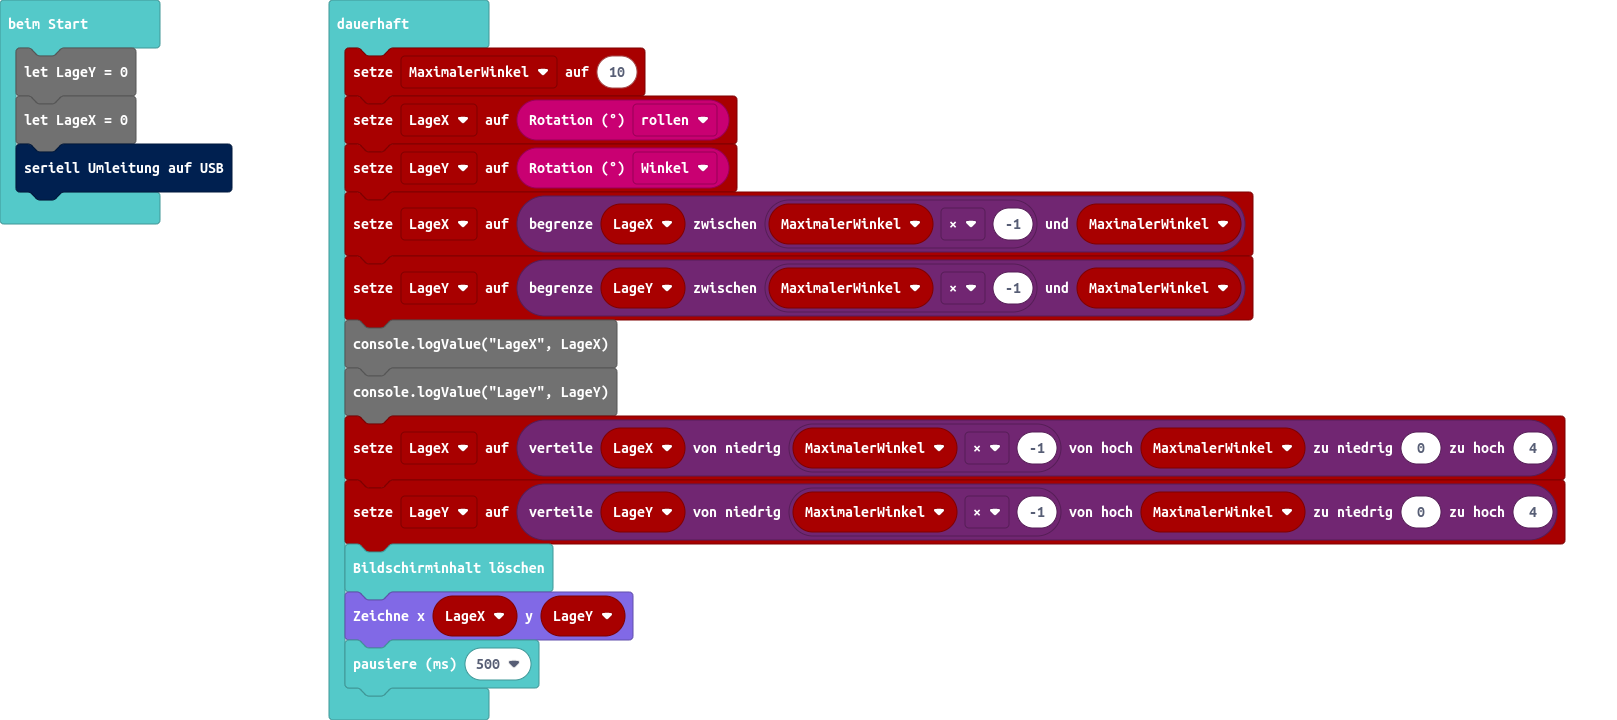
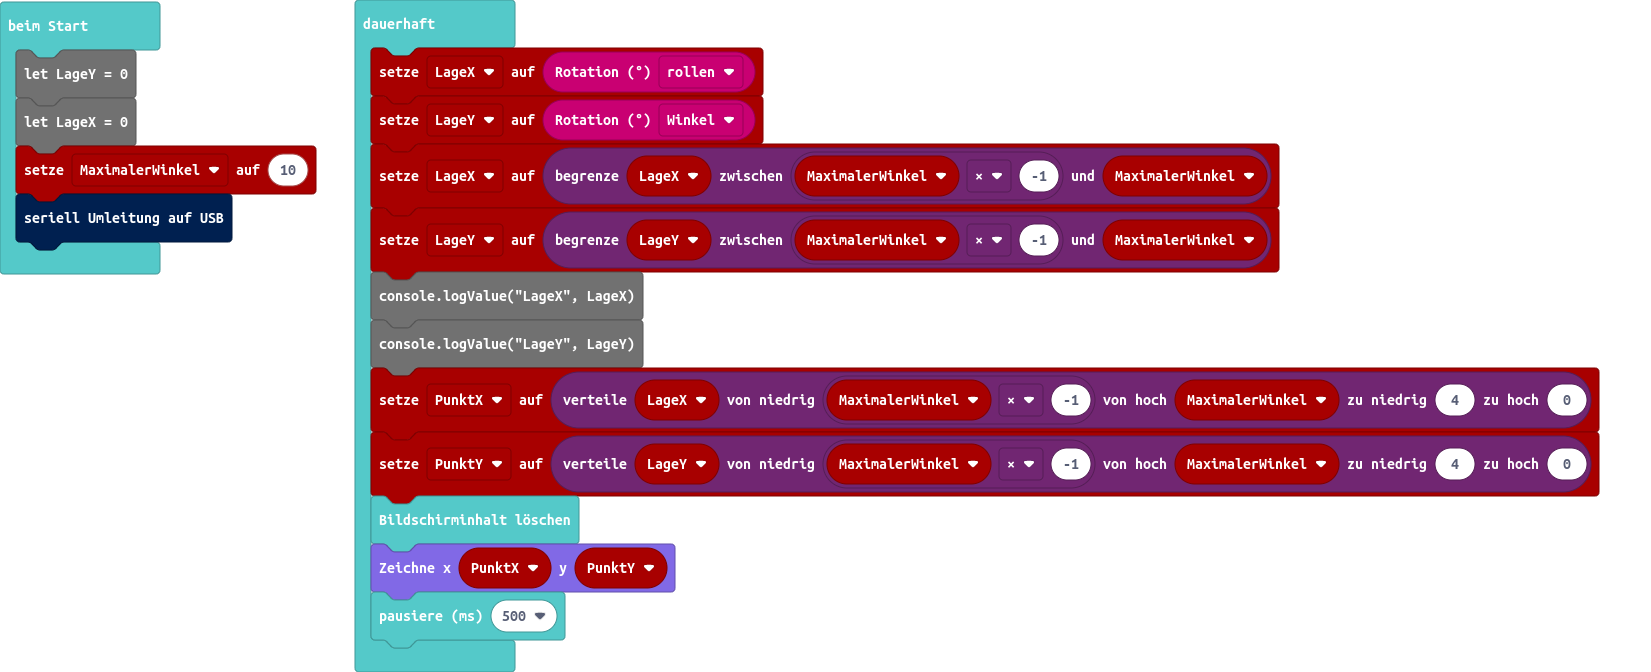
Aktualisiere pxt.json, main.blocks, main.ts, anleitung.md

Changed region(s): [[0.0, 0.0, 0.9895, 1.0], [0.0, 0.0, 0.1237, 0.125]]

diff --git a/main.ts b/main.ts
@@ -1,18 +1,19 @@
-let MaximalerWinkel = 0
+let PunktY = 0
+let PunktX = 0
 let LageY = 0
 let LageX = 0
+let MaximalerWinkel = 10
 serial.redirectToUSB()
 basic.forever(function () {
-    MaximalerWinkel = 10
     LageX = input.rotation(Rotation.Roll)
     LageY = input.rotation(Rotation.Pitch)
     LageX = Math.constrain(LageX, MaximalerWinkel * -1, MaximalerWinkel)
     LageY = Math.constrain(LageY, MaximalerWinkel * -1, MaximalerWinkel)
     console.logValue("LageX", LageX)
 console.logValue("LageY", LageY)
-LageX = Math.map(LageX, MaximalerWinkel * -1, MaximalerWinkel, 0, 4)
-    LageY = Math.map(LageY, MaximalerWinkel * -1, MaximalerWinkel, 0, 4)
+PunktX = Math.map(LageX, MaximalerWinkel * -1, MaximalerWinkel, 4, 0)
+    PunktY = Math.map(LageY, MaximalerWinkel * -1, MaximalerWinkel, 4, 0)
     basic.clearScreen()
-    led.plot(LageX, LageY)
+    led.plot(PunktX, PunktY)
     basic.pause(500)
 })

diff --git a/anleitung.md b/anleitung.md
@@ -1,0 +1,140 @@
+# Wasserwaage
+
+## ~avatar avatar @unplugged
+
+Dein @boardname@ hat einen eingebauten Sensor, der die Lage des @boardname@ ausgeben kann.
+Der @boardname@ kann dabei die Neigung in x - und y - Richtung ausgeben. Mit x - Richtung ist gemeint, wenn Du den @boardname@
+nach links oder rechts neigst, dabei werden Werte zwischen -90 (nach links kippen, bis der @boardname@ senkrecht steht) und +90 (nach rechts kippen, bis der @boardname@ senkrecht steht) ausgegeben.
+Mit y - Richtung ist gemeint, wenn Du den @boardname@ nach vorn oder zu Dir neigst, dabei werden Werte zwischen -90 
+(nach vorn kippen, bis der @boardname@ senkrecht steht) und +90 (zu Dir kippen, bis der @boardname@ senkrecht steht) ausgegeben. Wenn der @boardname@ genau waagerecht gehalten wird, sind beide Werte gleich 0.
+ 
+Damit kannst Du eine elektronische Wasserwaage bauen. Die 5x5 LED Matrix des @boardname@ soll einen Punkt anzeigen, dabei soll der Punkt in der Mitte der Matrix sein, wenn Dein @boardname@ genau waagerecht liegt. 
+Die Empfindlichkeit der Wasserwaage soll einstellbar sein.
+
+
+## Schritt 1 @fullscreen
+
+Erstelle eine Variable ``||Variables:MaximalerWinkel||`` und setze diese auf den Wert 10. Damit wird die Empfindlichkeit der Anzeige gesteuert.
+Jee kleiner der Wert ist, desto empfindlicher reagiert die Wasserwaage.
+Setze dies in den Block  ``||Basic:beim Start||``.
+
+```blocks
+let MaximalerWinkel = 10
+```
+
+
+## Schritt 2 @fullscreen
+
+Erstelle eine Variable ``||Variables:LageX||`` und eine Variable ``||Variables:LageY||``, in die die Lage-Werte des @boardname@ gespeichert werden.
+Ermittle die x - Lage des @boardname@ mit dem Block ``||Input:Rotation (°) rollen||`` aus dem Block Input ``||Input:Input||``
+und speichere den Wert in der Variablen ``||Variables:LageX||``. Ermittle die y - Lage des @boardname@ mit dem Block ``||Input:Rotation (°) Winkel||`` aus dem Block Input ``||Input:Input||``
+und speichere den Wert in der Variablen ``||Variables:LageY||``. 
+Damit die Ermittlung kontinuierlich passiert, müssen diese Blöcke in den Block  ``||Basic:dauerhaft||``.
+
+```blocks
+basic.forever(() => {
+    LageX = input.rotation(Rotation.Roll)
+    LageY = input.rotation(Rotation.Pitch)
+})
+```
+
+
+## Schritt 3 @fullscreen
+
+Begrenze die Werte für ``||Variables:LageX||`` und ``||Variables:LageY||`` auf ``||Variables:MaximalerWinkel||``, 
+und zwar so, daß das für negative und positive Werte gleichermaßen passiert. Dafür kannst Du den Block ``||Math:begrenze zwischen und||``
+aus dem ``||Math:Mathematik||`` Block benutzen. Für den unteren Wert musst Du ``||Variables:MaximalerWinkel||`` mit -1 multiplizieren, 
+damit Du eine -10 erhältst. 
+**Beachte hier, daß wir die neu errechneten Werte wieder in die gleichen Variablen ``||Variables:LageX||`` und ``||Variables:LageY||`` speichern. Wir können das tun, weil wir die alten Inhalte von ``||Variables:LageX||`` und ``||Variables:LageY||`` nicht mehr brauchen.**
+
+```blocks
+basic.forever(() => {
+    LageX = input.rotation(Rotation.Roll)
+    LageY = input.rotation(Rotation.Pitch)
+    LageX = Math.constrain(LageX, MaximalerWinkel * -1, MaximalerWinkel)
+    LageY = Math.constrain(LageY, MaximalerWinkel * -1, MaximalerWinkel)
+});
+```
+
+
+## Schritt 4 @fullscreen
+
+Erstelle eine Variable ``||Variables:PunktX||`` und eine Variable ``||Variables:PunktY||``, 
+in die die berechneten Koordinaten für den Punkt auf der 5x5 LED Matrix des @boardname@ gespeichert werden.
+Setze sie auf 0.
+
+**Beachte hier, daß wir die errechneten Werte für die Anzeige in neue Variablen ``||Variables:PunktX||`` und ``||Variables:PunktY||`` speichern. Wir machen das, weil wir die Inhalte von ``||Variables:LageX||`` und ``||Variables:LageY||`` evtl. noch für die Fehlersuche brauchen.**
+
+
+```blocks
+let MaximalerWinkel = 10
+let PunktX = 0
+let PunktY = 0
+```
+
+## Schritt 5 @fullscreen
+
+Berechne ``||Variables:PunktX||`` und ``||Variables:PunktY||``, indem Du mit dem Block ``||Math:verteile .. von niedrig von hoch .. zu niedrig zu hoch||``
+aus dem ``||Math:Mathematik||`` Block die Lage - Koordinate, die sich zwischen -``||Variables:MaximalerWinkel||`` und ``||Variables:MaximalerWinkel||`` 
+bewegt, auf eine mögliche Koordinate der 5x5 - Matrix des @boardname@ zuweist. Programmiere diesen Schritt für ``||Variables:PunktX||`` und ``||Variables:PunktY||``. 
+Denke daran, daß sich die Luftblase auf einer Wasserwaage immer entgegengesetzt zur Neigung bewegt.
+
+
+```blocks
+basic.forever(() => {
+    LageX = input.rotation(Rotation.Roll)
+    LageY = input.rotation(Rotation.Pitch)
+    LageX = Math.constrain(LageX, MaximalerWinkel * -1, MaximalerWinkel)
+    LageY = Math.constrain(LageY, MaximalerWinkel * -1, MaximalerWinkel)
+    PunktX = Math.map(LageX, MaximalerWinkel * -1, MaximalerWinkel, 4, 0)
+    PunktY = Math.map(LageY, MaximalerWinkel * -1, MaximalerWinkel, 4, 0)
+});
+```
+
+
+## Schritt 6 @fullscreen
+
+Zeige einen Punkt auf der 5x5 LED Matrix des @boardname@ an, indem Du den Block ``||LED:Zeichne x y||`` verwendest. 
+Beachte, daß der @boardname@ sehr schnell arbeitet und Du den Punkt eine kleine Weile (hier eine halbe Sekunde) 
+leuchten lassen musst, damit Du ihn siehst. Lösche vorher die gesamte Matrix mit ``||Basic:Bildschirminhalt löschen||``. 
+
+```blocks
+basic.forever(() => {
+    LageX = input.rotation(Rotation.Roll)
+    LageY = input.rotation(Rotation.Pitch)
+    LageX = Math.constrain(LageX, MaximalerWinkel * -1, MaximalerWinkel)
+    LageY = Math.constrain(LageY, MaximalerWinkel * -1, MaximalerWinkel)
+    PunktX = Math.map(LageX, MaximalerWinkel * -1, MaximalerWinkel, 4, 0)
+    PunktY = Math.map(LageY, MaximalerWinkel * -1, MaximalerWinkel, 4, 0)
+    basic.clearScreen()
+    led.plot(PunktX, PunktY)
+    basic.pause(500)
+});
+```
+
+
+## Schritt 7 @fullscreen
+
+Du kannst Dein Programm jetzt im Simulator von Makecode testen. Drücke dazu auf den grünen Pfeil (Vorlauf - Taste) unterhalb des @boardname@.
+Mit Klicken auf die Stop - Taste, die dann erscheint, kannst Du den Simulator stoppen. Die Neigung des @boardname@ kannst Du simulieren, 
+indem Du die Maus über den @boardname@ führst. Dabei kannst Du beobachten, wie sich der Punkt auf der 5x5 LED Matrix bewegt. 
+Experimentiere mit verschiedenen Werten für ``||Variables:MaximalerWinkel||``!  
+
+
+## Schritt 8 @fullscreen
+
+Schliesse Deinen @boardname@ mit einem USB Kabel an und drücke auf ``|Herunterladen|``. Speichere Dein Programm auf dem Laufwerk **@drivename@**. 
+Damit wird Dein Programm zum @boardname@ übertragen.
+
+
+## Schritt 9
+
+Gut gemacht! Du hast eine elektronische Wasserwaage für den @boardname@ programmiert.
+Verlasse diese Anleitung, indem Du auf ``|Fertigstellen|`` klickst. 
+
+
+## ~ @unplugged
+Im Hauptmenü von makecode findest Du den Menüpunkt ``|Teilen|``. 
+Klicke darauf, Du siehst anschließend ein Fenster in der Mitte mit dem Namen des Projektes. 
+Klicke auf die Schaltfläche ``|Projekt veröffentlichen|`` und dann auf ``|Link|`` kopieren. 
+Danach kannst Du diesen Link in der Schulcloud als Lösung zu der Aufgabe eintragen.
